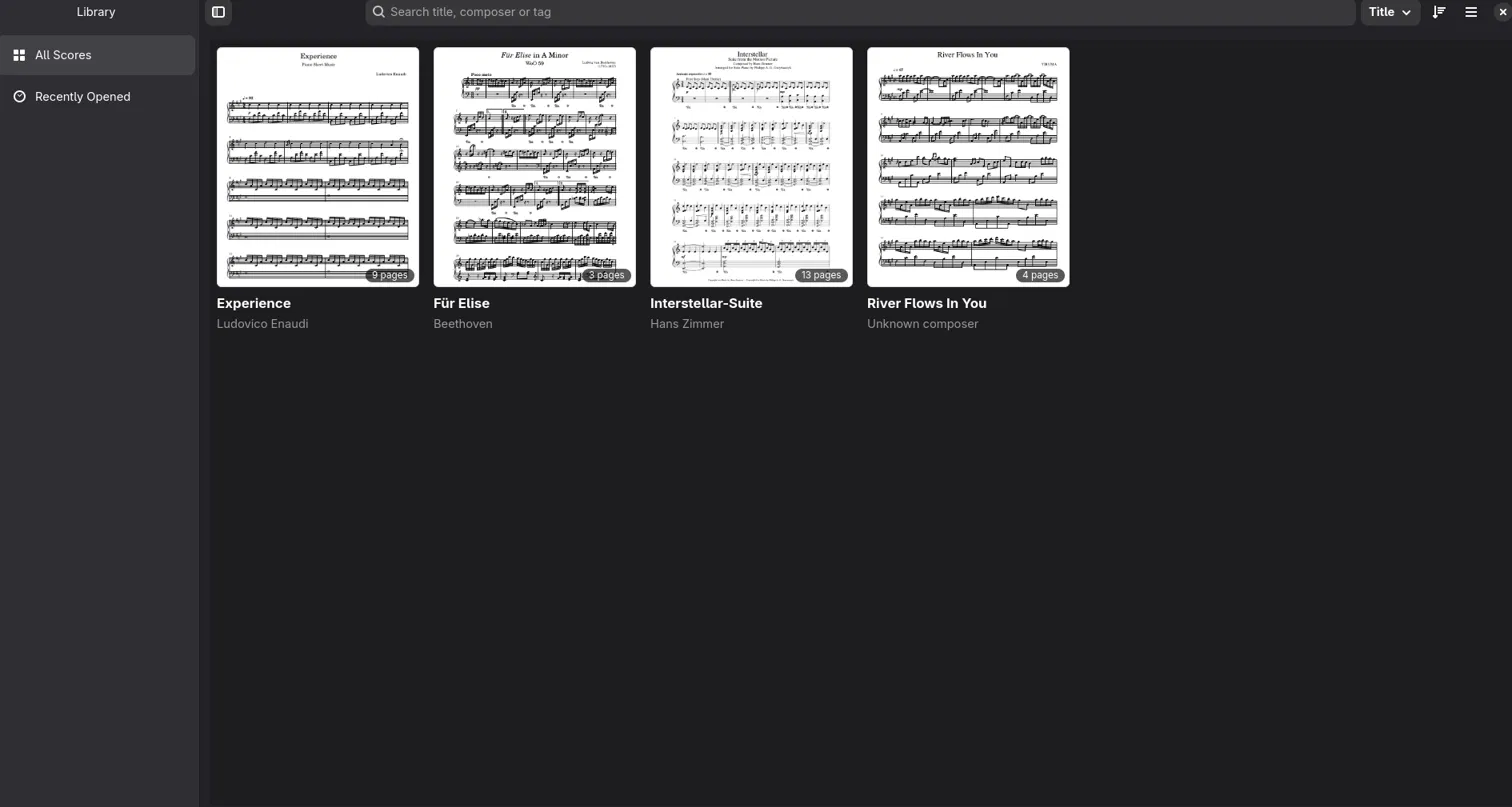
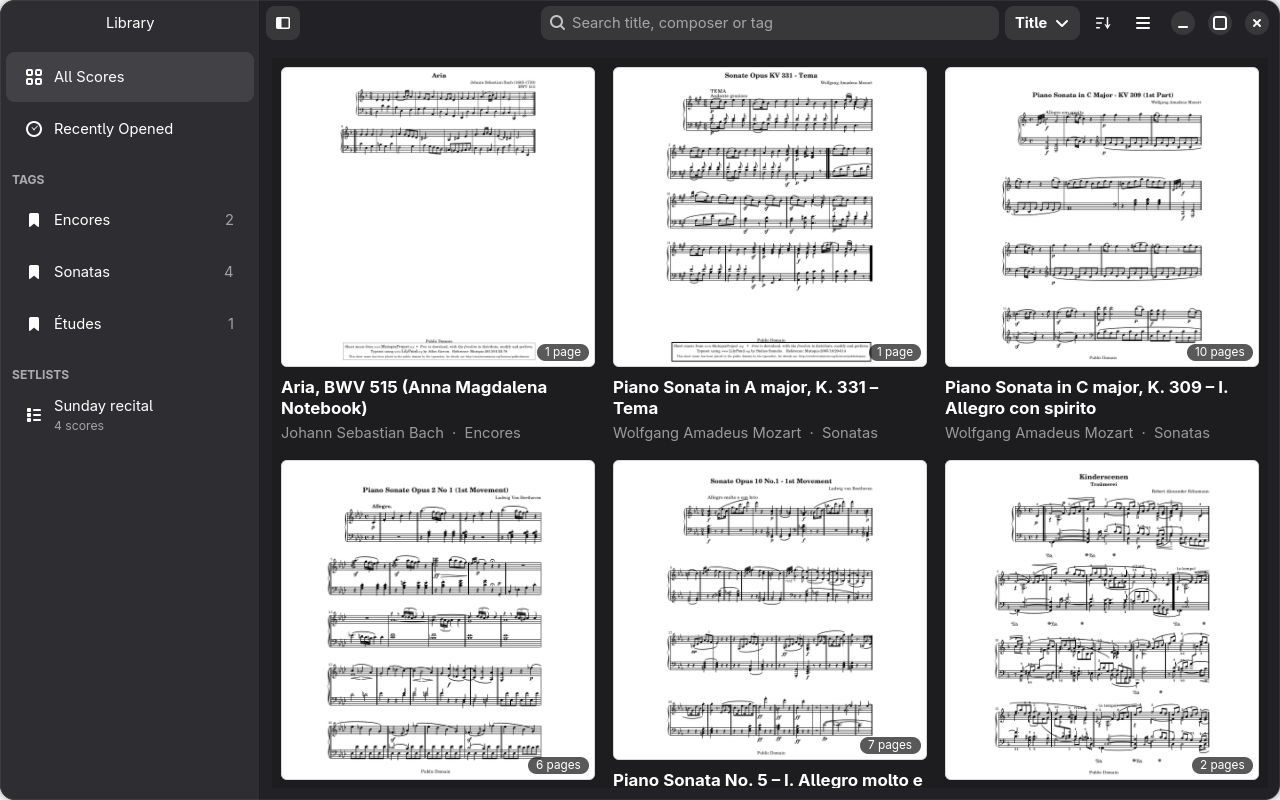
Show Leggio off on the GitHub page
Add a short GIF of page turns near the top of the README, a library
screenshot, a night-mode screenshot and a page-overview screenshot, plus
release, CI and licence badges. The Arch install line now uses yay. The
metainfo lists the three screenshots with captions.

Every score shown is public domain sheet music from the Mutopia Project,
marked "Public Domain" on its Mutopia page and in its PDF footer; the
pieces, typesetters and source editions are listed in
data/screenshots/SOURCES.md. The GIF is 350 KB.

diff --git a/data/screenshots/SOURCES.md b/data/screenshots/SOURCES.md
@@ -1,0 +1,24 @@
+# Screenshot sources
+
+The screenshots and `page-turns.gif` were taken from Leggio itself. Every
+score in them is public domain sheet music from the
+[Mutopia Project](https://www.mutopiaproject.org/), engraved by Mutopia's
+volunteers with LilyPond from 19th-century editions. Each piece is marked
+"Public Domain" on its Mutopia page and in the footer of its PDF. No scan
+of a modern publisher's edition is used.
+
+Titles and composers were filled in through Leggio's own "Edit Details";
+the tags, setlist and bookmarks were made up for the screenshots.
+
+| Piece | Composer | Mutopia | Engraved from | Licence |
+|---|---|---|---|---|
+| Piano Sonata No. 5, Op. 10 No. 1, I. Allegro molto e con brio | Ludwig van Beethoven | [778](https://www.mutopiaproject.org/cgibin/piece-info.cgi?id=778), typeset by Stelios Samelis | Breitkopf & Härtel (1862–1865) | Public Domain |
+| Piano Sonata No. 1, Op. 2 No. 1, I. Allegro | Ludwig van Beethoven | [1211](https://www.mutopiaproject.org/cgibin/piece-info.cgi?id=1211), typeset by Stelios Samelis | Breitkopf & Härtel (1862–1865) | Public Domain |
+| Piano Sonata in C major, K. 309, I. Allegro con spirito | Wolfgang Amadeus Mozart | [1379](https://www.mutopiaproject.org/cgibin/piece-info.cgi?id=1379), typeset by Stelios Samelis | Breitkopf & Härtel (1877–83) | Public Domain |
+| Piano Sonata in A major, K. 331, Tema | Wolfgang Amadeus Mozart | [614](https://www.mutopiaproject.org/cgibin/piece-info.cgi?id=614), typeset by Stelios Samelis | Breitkopf & Härtel, Leipzig | Public Domain |
+| Étude in C major, Op. 10 No. 1 | Frédéric Chopin | [914](https://www.mutopiaproject.org/cgibin/piece-info.cgi?id=914), typeset by Roland Goretzki | Peters, Herrmann Scholtz (1900) | Public Domain |
+| Träumerei, Op. 15 No. 7 | Robert Schumann | [504](https://www.mutopiaproject.org/cgibin/piece-info.cgi?id=504), typeset by Ying-Chun Liu | Leichte Stücke (1900) | Public Domain |
+| Aria, BWV 515 (Anna Magdalena Notebook) | Johann Sebastian Bach | [78](https://www.mutopiaproject.org/cgibin/piece-info.cgi?id=78), typeset by Allen Garvin | Bach-Gesellschaft Ausgabe | Public Domain |
+
+The GIF and the night-mode screenshot show the Beethoven Sonata No. 5;
+the overview shows the same piece with two bookmarks.

diff --git a/README.md b/README.md
@@ -2,22 +2,35 @@
   <img src="data/icons/hicolor/scalable/apps/io.github.mrgilfy.leggio.svg" alt="" width="112">
   <h1>Leggio</h1>
   <p>Read sheet music PDFs from a screen on your music stand.</p>
+  <p>
+    <a href="https://github.com/MrGilfy/leggio/releases/latest"><img src="https://img.shields.io/github/v/release/MrGilfy/leggio" alt="Latest release"></a>
+    <a href="https://github.com/MrGilfy/leggio/actions/workflows/ci.yml"><img src="https://github.com/MrGilfy/leggio/actions/workflows/ci.yml/badge.svg" alt="CI"></a>
+    <a href="LICENSE"><img src="https://img.shields.io/github/license/MrGilfy/leggio" alt="License: GPL-3.0-or-later"></a>
+  </p>
 </div>
 
-![The Leggio library](data/screenshots/library.png)
+![Turning pages in a Beethoven sonata](data/screenshots/page-turns.gif)
 
 Leggio keeps a library of your sheet music PDFs, with search, tags and
 setlists. Scores open fullscreen with the white margins cut off, and pages
 turn instantly by tap, swipe, keyboard or Bluetooth pedal. You can draw on
-a score, use half-page turns and night mode, and your PDF files are never
-changed.
+a score, jump to a D.S. or coda with one tap, bookmark long scores and
+export them as PDFs, and your PDF files are never changed.
+
+<p align="center">
+  <img src="data/screenshots/library.png" alt="The score library" width="49%">
+  <img src="data/screenshots/viewer-night.png" alt="A score in night mode" width="49%">
+</p>
+<p align="center">
+  <img src="data/screenshots/overview.png" alt="The page overview with bookmarks" width="98.5%">
+</p>
 
 ## Install
 
 **Arch Linux.** From the AUR, or `leggio-git` for the newest code:
 
 ```sh
-paru -S leggio
+yay -S leggio
 ```
 
 **Flatpak.** Download `leggio-<version>.flatpak` from the
